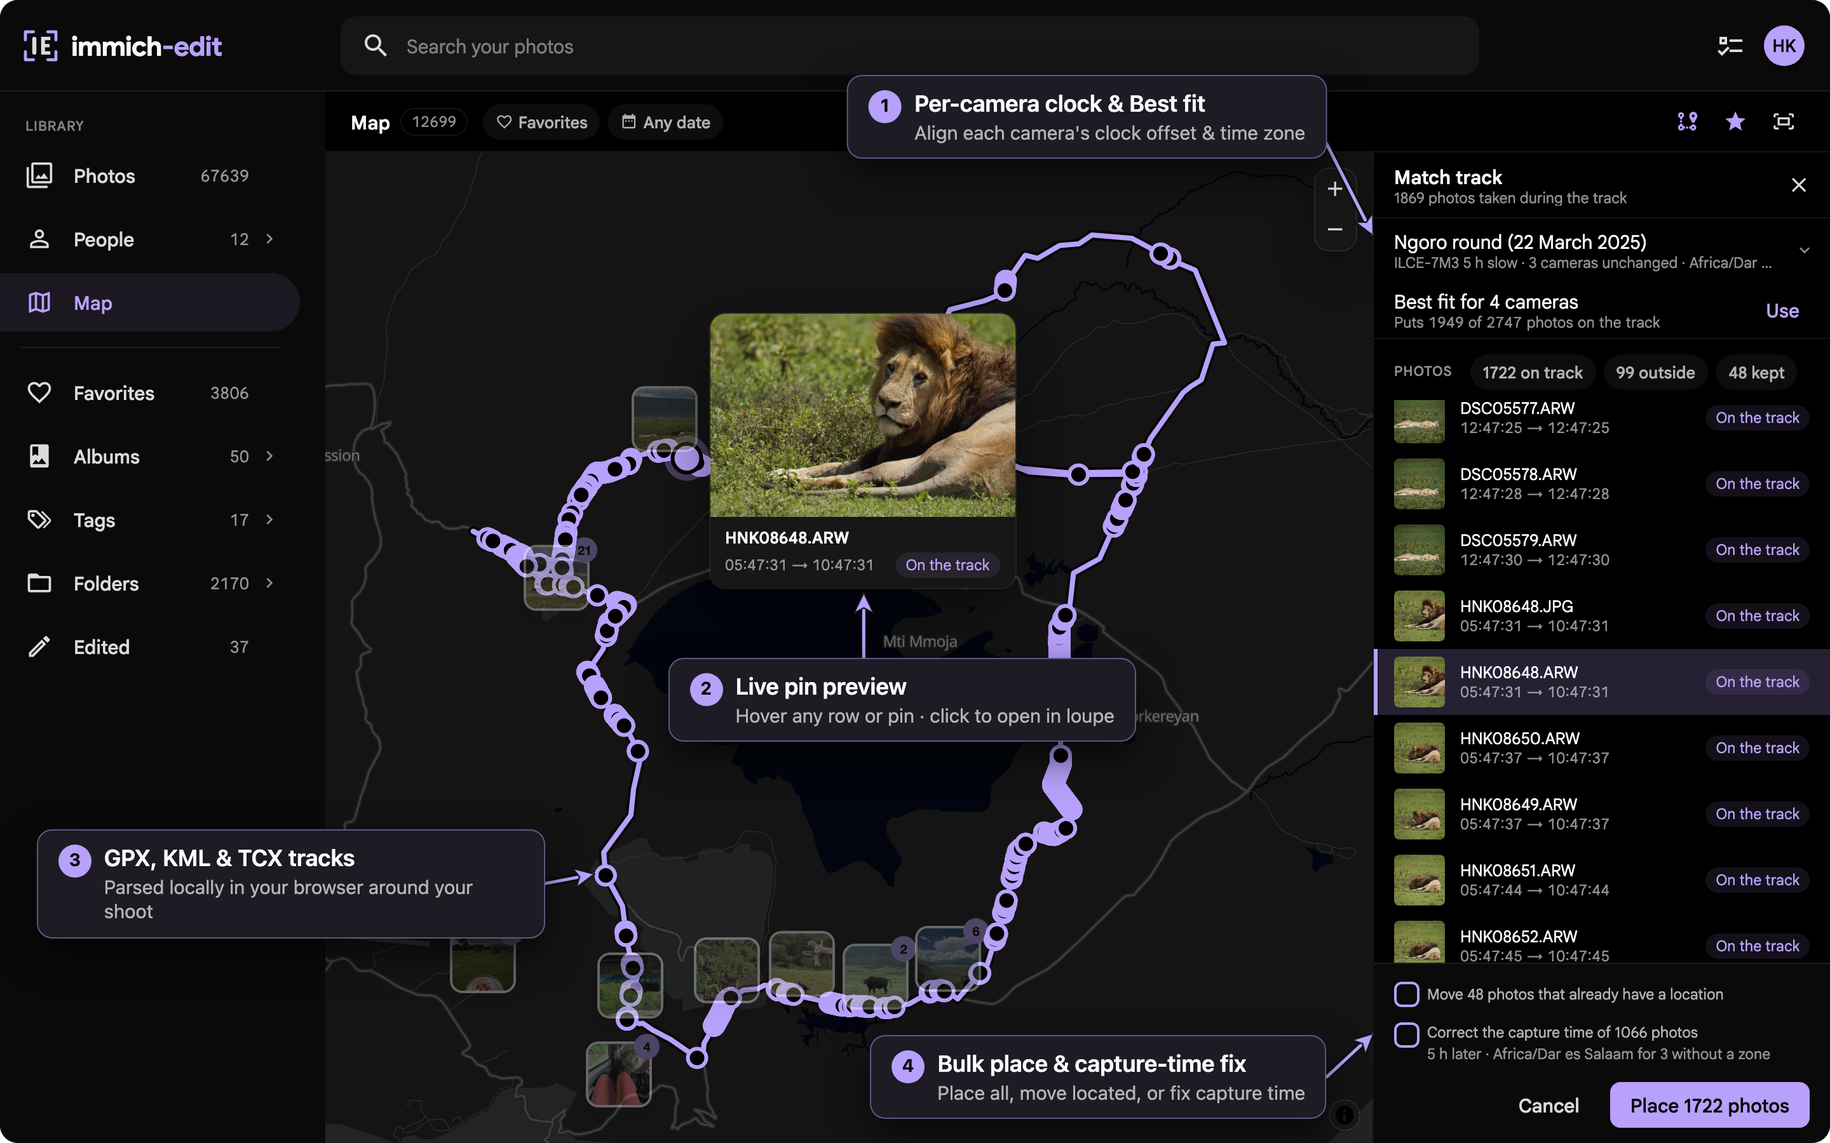
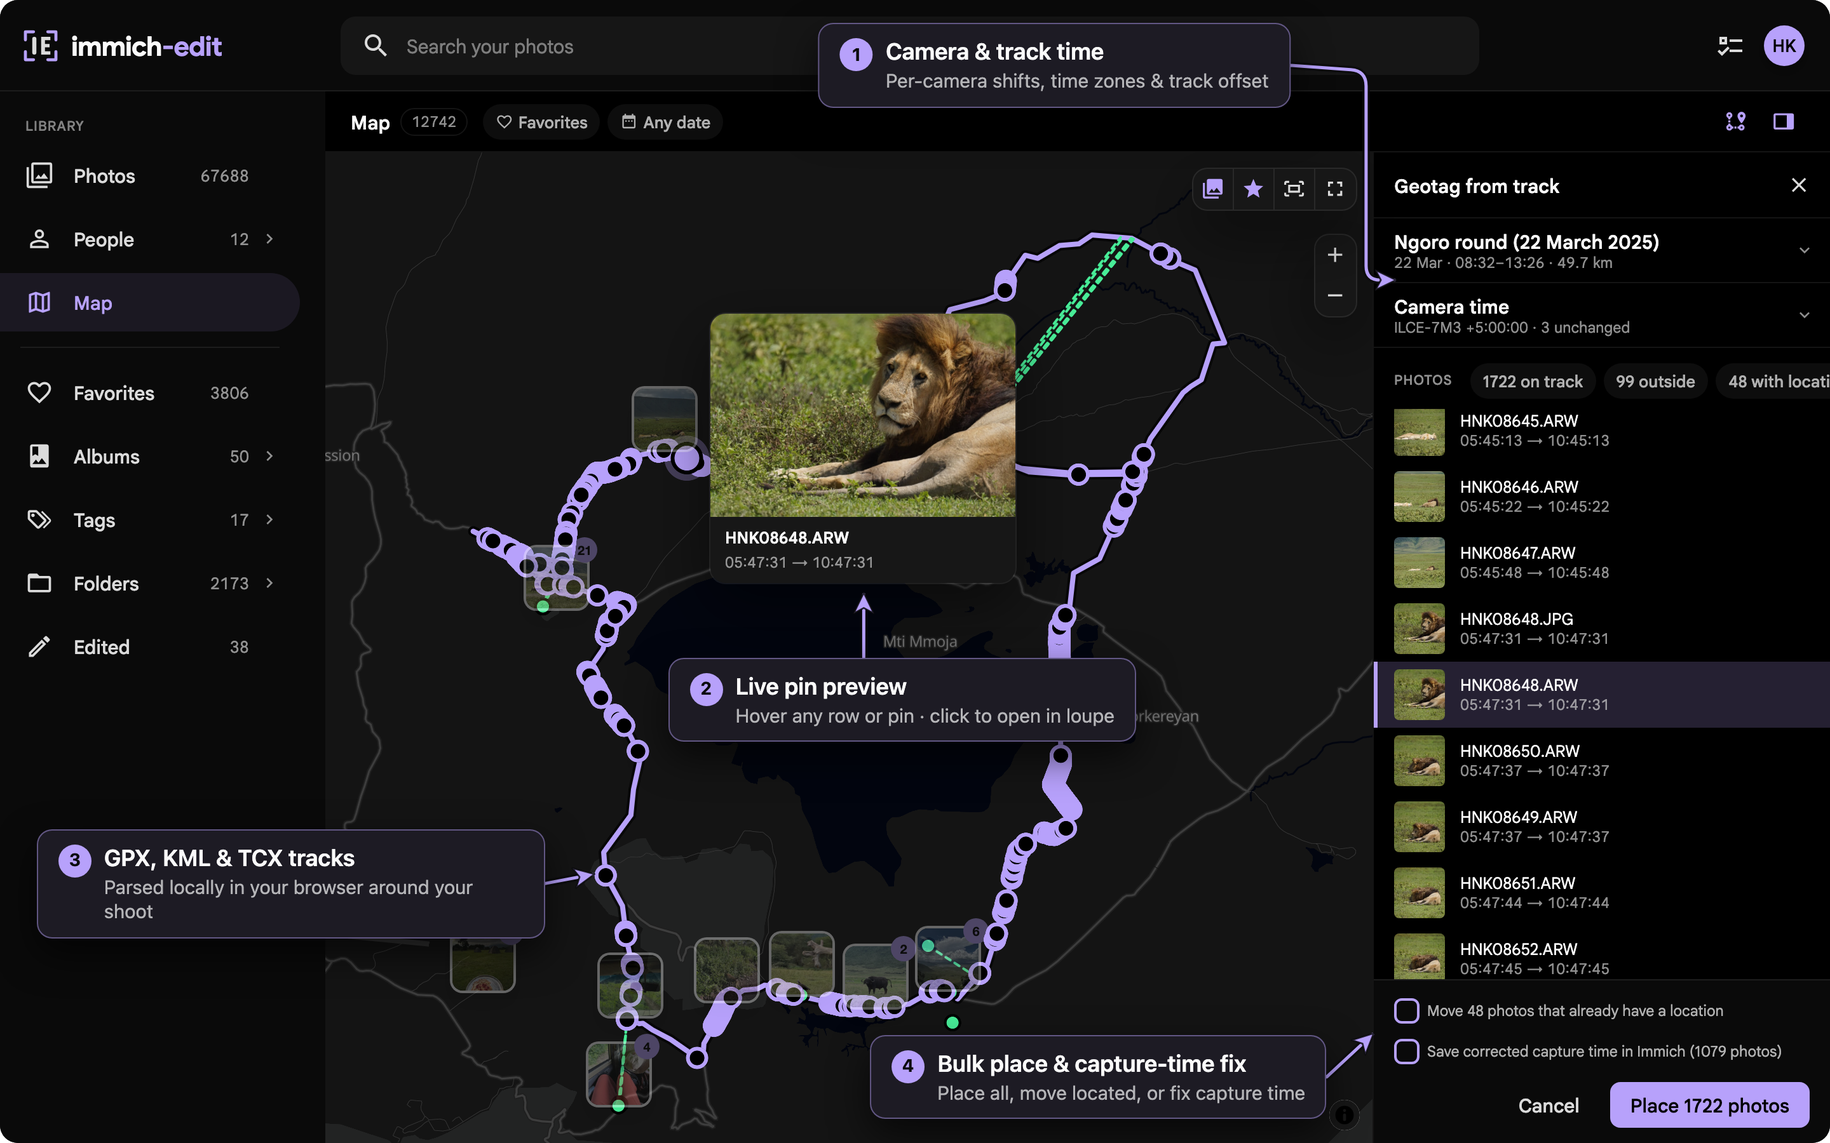
chore: rename track matching to geotag from track

diff --git a/web/e2e/map-track.spec.ts b/web/e2e/map-track.spec.ts
@@ -91,11 +91,11 @@ test('a track places a selection after the camera time is lined up', async ({ pa
   await openBulkLocation(page);
   await page
     .getByRole('group', { name: 'Location' })
-    .getByRole('button', { name: 'Match to a track…' })
+    .getByRole('button', { name: 'Geotag from track…' })
     .click();
 
   await expect(page).toHaveURL(/\/map/);
-  const panel = page.getByRole('complementary', { name: 'Match track' });
+  const panel = page.getByRole('complementary', { name: 'Geotag from track' });
   await expect(panel).toContainText('3 selected photos');
   await loadTrack(page);
 
@@ -140,8 +140,8 @@ test('placing can change the capture time too, and one Undo reverts both', async
     captureTime: times
   });
   await page.goto('/map');
-  await page.getByRole('button', { name: 'Match track' }).click();
-  const panel = page.getByRole('complementary', { name: 'Match track' });
+  await page.getByRole('button', { name: 'Geotag from track' }).click();
+  const panel = page.getByRole('complementary', { name: 'Geotag from track' });
   await loadTrack(page);
   const fix = panel.getByRole('checkbox', {
     name: 'Save corrected capture time in Immich (2 photos)'
@@ -198,8 +198,8 @@ test('each camera keeps its own time zone and shift', async ({ page }) => {
   ];
   await installMocks(page, { assets: shots, placeName: BERGEN, metadataPushConsented: true });
   await page.goto('/map');
-  await page.getByRole('button', { name: 'Match track' }).click();
-  const panel = page.getByRole('complementary', { name: 'Match track' });
+  await page.getByRole('button', { name: 'Geotag from track' }).click();
+  const panel = page.getByRole('complementary', { name: 'Geotag from track' });
   await loadTrack(page);
 
   await expect(shiftHeader(panel)).toContainText('No change');
@@ -237,8 +237,8 @@ test('each camera keeps its own time zone and shift', async ({ page }) => {
 test('a track logged in local time gets its time zone', async ({ page }) => {
   await open(page, []);
   await page.goto('/map');
-  await page.getByRole('button', { name: 'Match track' }).click();
-  const panel = page.getByRole('complementary', { name: 'Match track' });
+  await page.getByRole('button', { name: 'Geotag from track' }).click();
+  const panel = page.getByRole('complementary', { name: 'Geotag from track' });
   await loadTrack(page);
   await expect(panel.getByRole('button', { name: 'Place 0 photos', exact: true })).toBeDisabled();
 
@@ -266,8 +266,8 @@ test('photos with a location can get their capture time saved alone', async ({ p
     captureTime: times
   });
   await page.goto('/map');
-  await page.getByRole('button', { name: 'Match track' }).click();
-  const panel = page.getByRole('complementary', { name: 'Match track' });
+  await page.getByRole('button', { name: 'Geotag from track' }).click();
+  const panel = page.getByRole('complementary', { name: 'Geotag from track' });
   await loadTrack(page);
   await lineUp(panel);
 
@@ -294,8 +294,8 @@ test('photos with a location can get their capture time saved alone', async ({ p
 test('typing a shift moves the photos along the track', async ({ page }) => {
   await open(page, []);
   await page.goto('/map');
-  await page.getByRole('button', { name: 'Match track' }).click();
-  const panel = page.getByRole('complementary', { name: 'Match track' });
+  await page.getByRole('button', { name: 'Geotag from track' }).click();
+  const panel = page.getByRole('complementary', { name: 'Geotag from track' });
   await expect(panel).toContainText('Choose GPX, KML or TCX files');
   await loadTrack(page);
   await openShifts(panel);
@@ -317,8 +317,8 @@ test('typing a shift moves the photos along the track', async ({ page }) => {
 test('a track shift moves the track under the photos', async ({ page }) => {
   await open(page, []);
   await page.goto('/map');
-  await page.getByRole('button', { name: 'Match track' }).click();
-  const panel = page.getByRole('complementary', { name: 'Match track' });
+  await page.getByRole('button', { name: 'Geotag from track' }).click();
+  const panel = page.getByRole('complementary', { name: 'Geotag from track' });
   await loadTrack(page);
   await expect(panel.getByRole('button', { name: 'Place 0 photos', exact: true })).toBeDisabled();
 
@@ -337,8 +337,8 @@ test('a track shift moves the track under the photos', async ({ page }) => {
 test('hovering a pin points at its photo and a click opens it large', async ({ page }) => {
   await open(page, []);
   await page.goto('/map');
-  await page.getByRole('button', { name: 'Match track' }).click();
-  const panel = page.getByRole('complementary', { name: 'Match track' });
+  await page.getByRole('button', { name: 'Geotag from track' }).click();
+  const panel = page.getByRole('complementary', { name: 'Geotag from track' });
   await loadTrack(page);
   await lineUp(panel);
   const photos = panel.getByRole('list', { name: 'Photos on the track' });
@@ -388,8 +388,8 @@ test('photo markers dim under the track and can be hidden', async ({ page }) => 
   await page.goto('/map');
   const toggle = page.getByRole('button', { name: 'Photos on the map', exact: true });
   await expect(toggle).toHaveCount(0);
-  await page.getByRole('button', { name: 'Match track' }).click();
-  const panel = page.getByRole('complementary', { name: 'Match track' });
+  await page.getByRole('button', { name: 'Geotag from track' }).click();
+  const panel = page.getByRole('complementary', { name: 'Geotag from track' });
   await loadTrack(page);
   await lineUp(panel);
   await expect(page).toHaveURL(/at=60\.115\d*%2C6\.715/);
@@ -417,8 +417,8 @@ test('photo markers dim under the track and can be hidden', async ({ page }) => 
 test('track and camera time sections slide open and closed', async ({ page }) => {
   await open(page, []);
   await page.goto('/map');
-  await page.getByRole('button', { name: 'Match track' }).click();
-  const panel = page.getByRole('complementary', { name: 'Match track' });
+  await page.getByRole('button', { name: 'Geotag from track' }).click();
+  const panel = page.getByRole('complementary', { name: 'Geotag from track' });
   await loadTrack(page);
   await page.evaluate(() => {
     const slides: string[] = [];
@@ -453,7 +453,7 @@ function trackBox(page: Page): Locator {
 test('the whole track box opens the file picker', async ({ page }) => {
   await open(page, []);
   await page.goto('/map');
-  await page.getByRole('button', { name: 'Match track' }).click();
+  await page.getByRole('button', { name: 'Geotag from track' }).click();
   await expect(trackBox(page)).toContainText('or drop them on the map');
   const chooser = page.waitForEvent('filechooser');
   await trackBox(page).click({ position: { x: 8, y: 8 } });
@@ -474,8 +474,8 @@ test.describe('a camera without a time zone', () => {
     })) as ReturnType<typeof numberedAssets>;
     await installMocks(page, { assets: unzoned, placeName: BERGEN, metadataPushConsented: true });
     await page.goto('/map');
-    await page.getByRole('button', { name: 'Match track' }).click();
-    const panel = page.getByRole('complementary', { name: 'Match track' });
+    await page.getByRole('button', { name: 'Geotag from track' }).click();
+    const panel = page.getByRole('complementary', { name: 'Geotag from track' });
     await loadTrack(page);
     await openShifts(panel);
     const shifts = cameraShift(panel);
@@ -491,7 +491,7 @@ test.describe('track matching on touch', { tag: '@touch' }, () => {
   test('a tap anywhere on the track box opens the file picker', async ({ page }) => {
     await open(page, []);
     await page.goto('/map');
-    await page.getByRole('button', { name: 'Match track' }).tap();
+    await page.getByRole('button', { name: 'Geotag from track' }).tap();
     await expect(trackBox(page)).not.toContainText('drop');
     const chooser = page.waitForEvent('filechooser');
     await trackBox(page).tap({ position: { x: 8, y: 8 } });
@@ -507,7 +507,7 @@ test.describe('track matching on touch', { tag: '@touch' }, () => {
     await openTouchLocation(page);
     await page
       .getByRole('dialog', { name: 'Location' })
-      .getByRole('button', { name: 'Match to a track…' })
+      .getByRole('button', { name: 'Geotag from track…' })
       .tap();
     await expect(page).toHaveURL(/\/map/);
     await loadTrack(page);
@@ -519,7 +519,7 @@ test.describe('track matching on touch', { tag: '@touch' }, () => {
   test('a tapped photo shows its card first, then opens large', async ({ page }) => {
     await open(page, []);
     await page.goto('/map');
-    await page.getByRole('button', { name: 'Match track' }).tap();
+    await page.getByRole('button', { name: 'Geotag from track' }).tap();
     await loadTrack(page);
     await lineUpOnTouch(page);
     const panel = page.locator('[data-track-panel]');
@@ -552,7 +552,7 @@ test.describe('track matching on touch', { tag: '@touch' }, () => {
     await open(page, []);
     await page.goto('/library');
     await page.getByRole('link', { name: /^Map/ }).filter({ visible: true }).first().tap();
-    await page.getByRole('button', { name: 'Match track' }).tap();
+    await page.getByRole('button', { name: 'Geotag from track' }).tap();
     await loadTrack(page);
     await expect(page.locator('[data-track-sheet]')).toBeVisible();
     await page.getByRole('button', { name: 'Back', exact: true }).tap();
@@ -560,7 +560,7 @@ test.describe('track matching on touch', { tag: '@touch' }, () => {
     await page.getByRole('link', { name: /^Map/ }).filter({ visible: true }).first().tap();
     await expect(page.getByRole('region', { name: 'Map of your photos' })).toBeVisible();
     await expect(page.locator('[data-track-sheet]')).toHaveCount(0);
-    await expect(page.getByRole('button', { name: 'Match track' })).toHaveAttribute(
+    await expect(page.getByRole('button', { name: 'Geotag from track' })).toHaveAttribute(
       'aria-pressed',
       'false'
     );
@@ -576,7 +576,7 @@ test.describe('track matching on touch', { tag: '@touch' }, () => {
       captureTime: times
     });
     await page.goto('/map');
-    await page.getByRole('button', { name: 'Match track' }).tap();
+    await page.getByRole('button', { name: 'Geotag from track' }).tap();
     await loadTrack(page);
     await lineUpOnTouch(page);
     const sheet = page.locator('[data-track-sheet]');
@@ -593,7 +593,7 @@ test.describe('track matching on touch', { tag: '@touch' }, () => {
     test.skip(info.project.name !== 'touch-phone', 'phone sheet');
     await open(page, []);
     await page.goto('/map');
-    await page.getByRole('button', { name: 'Match track' }).tap();
+    await page.getByRole('button', { name: 'Geotag from track' }).tap();
     await loadTrack(page);
     const sheet = page.locator('[data-track-sheet]');
     const resize = page.getByRole('button', { name: 'Resize sheet' });
@@ -616,7 +616,7 @@ test.describe('track matching on touch', { tag: '@touch' }, () => {
     test.skip(info.project.name !== 'touch-phone', 'phone sheet');
     await open(page, []);
     await page.goto('/map');
-    await page.getByRole('button', { name: 'Match track' }).tap();
+    await page.getByRole('button', { name: 'Geotag from track' }).tap();
     await loadTrack(page);
     const sheet = page.locator('[data-track-sheet]');
     const height = async (): Promise<number> => (await sheet.boundingBox())!.height;
@@ -632,7 +632,7 @@ test.describe('track matching on touch', { tag: '@touch' }, () => {
     test.skip(info.project.name !== 'touch-tablet', 'tablet panel');
     await open(page, []);
     await page.goto('/map');
-    await page.getByRole('button', { name: 'Match track' }).tap();
+    await page.getByRole('button', { name: 'Geotag from track' }).tap();
     await loadTrack(page);
     await lineUpOnTouch(page);
     await expect(page).toHaveURL(/%2C1[2-9]\.\d\d$/);
@@ -658,8 +658,8 @@ test.describe('track matching on touch', { tag: '@touch' }, () => {
     await page.setViewportSize({ width: 844, height: 390 });
     await open(page, []);
     await page.goto('/map');
-    await page.getByRole('button', { name: 'Match track' }).tap();
-    const panel = page.getByRole('complementary', { name: 'Match track' });
+    await page.getByRole('button', { name: 'Geotag from track' }).tap();
+    const panel = page.getByRole('complementary', { name: 'Geotag from track' });
     await expect(panel).toBeVisible();
     await loadTrack(page);
     const box = (await panel.boundingBox())!;

diff --git a/web/e2e/map-fullscreen.spec.ts b/web/e2e/map-fullscreen.spec.ts
@@ -29,7 +29,7 @@ function card(page: Page) {
 async function openTrack(page: Page): Promise<void> {
   await installMocks(page, { assets: SHOOT, metadataPushConsented: true });
   await page.goto('/map');
-  await page.getByRole('button', { name: 'Match track', exact: true }).click();
+  await page.getByRole('button', { name: 'Geotag from track', exact: true }).click();
   await page.getByLabel('Choose track files').setInputFiles(GPX);
   await expect(page.getByText('Hardangervidda').first()).toBeVisible();
 }
@@ -115,7 +115,7 @@ test('Escape leaves fullscreen before it clears a selection', async ({ page }) =
 
 test('a fullscreen track keeps its summary and Place in a floating card', async ({ page }) => {
   await openTrack(page);
-  const panel = page.getByRole('complementary', { name: 'Match track' });
+  const panel = page.getByRole('complementary', { name: 'Geotag from track' });
   await expect(panel).toBeVisible();
   await page.keyboard.press('f');
   await expect(panel).toBeHidden();
@@ -142,7 +142,7 @@ test('fullscreen stays under the loupe and ends when the map is left for Library
   page
 }) => {
   await openTrack(page);
-  const panel = page.getByRole('complementary', { name: 'Match track' });
+  const panel = page.getByRole('complementary', { name: 'Geotag from track' });
   await panel.getByRole('button', { name: /^Camera time/ }).click();
   const shift = panel.getByRole('textbox', { name: 'Shift Unknown camera by', exact: true });
   await shift.fill('-1:00');
@@ -205,7 +205,7 @@ test.describe('fullscreen map on touch', { tag: '@touch' }, () => {
   }, info) => {
     await installMocks(page, { assets: SHOOT, metadataPushConsented: true });
     await page.goto('/map');
-    await page.getByRole('button', { name: 'Match track', exact: true }).tap();
+    await page.getByRole('button', { name: 'Geotag from track', exact: true }).tap();
     await page.getByLabel('Choose track files').setInputFiles(GPX);
     await expect(page.getByText('Hardangervidda').first()).toBeVisible();
     await page.getByRole('button', { name: 'Fullscreen', exact: true }).tap();
@@ -229,7 +229,7 @@ test.describe('fullscreen map on touch', { tag: '@touch' }, () => {
       const row = await boxOf(card(page));
       expect(Math.round(844 - (row.x + row.width))).toBe(12);
       expect(row.width).toBeLessThan(700);
-      await expect(page.getByRole('complementary', { name: 'Match track' })).toBeHidden();
+      await expect(page.getByRole('complementary', { name: 'Geotag from track' })).toBeHidden();
     } else {
       expect(Math.abs(box.x + box.width / 2 - viewport.width / 2)).toBeLessThan(2);
       expect(button.width).toBeLessThan(box.width / 2);

diff --git a/web/src/lib/components/map/MapPage.svelte b/web/src/lib/components/map/MapPage.svelte
@@ -399,7 +399,7 @@
     <div class="relative flex min-h-0 flex-1">
       {@render mapView('flex min-w-0 flex-1', 'min-w-0 flex-1')}
       <aside
-        aria-label="Match track"
+        aria-label="Geotag from track"
         class="w-75 shrink-0 flex-col border-s border-hairline bg-light {full ? 'hidden' : 'flex'}"
       >
         <TrackPanel />
@@ -425,7 +425,10 @@
   {:else}
     <div class="relative flex min-h-0 flex-1">
       {@render mapView('flex min-w-0 flex-1', 'min-w-0 flex-1')}
-      <MapSidePanel label={tracking ? 'Match track' : 'Photos in view'} shown={!full && side.shown}>
+      <MapSidePanel
+        label={tracking ? 'Geotag from track' : 'Photos in view'}
+        shown={!full && side.shown}
+      >
         {#if tracking}
           <TrackPanel />
         {:else}

diff --git a/web/src/lib/components/geotag/TrackPanel.svelte b/web/src/lib/components/geotag/TrackPanel.svelte
@@ -22,7 +22,7 @@
   {#if header}
     <div class="flex h-13 shrink-0 items-center gap-2 border-b border-hairline ps-4 pe-2">
       <div class="min-w-0 flex-1 leading-tight">
-        <h2 class="truncate text-sm font-semibold text-light-950">Match track</h2>
+        <h2 class="truncate text-sm font-semibold text-light-950">Geotag from track</h2>
         {#if subtitle}
           <p class="truncate text-caption text-dark/65">{subtitle}</p>
         {/if}

diff --git a/web/src/lib/components/map/MapActions.svelte b/web/src/lib/components/map/MapActions.svelte
@@ -15,8 +15,8 @@
   color={tracking ? 'primary' : 'secondary'}
   class="touch:size-11"
   icon={mdiMapMarkerPath}
-  title={tracking ? 'Close track' : 'Match photos to a track'}
-  aria-label="Match track"
+  title={tracking ? 'Close track' : 'Geotag photos from a GPS track'}
+  aria-label="Geotag from track"
   aria-pressed={tracking}
   onclick={() => (tracking ? trackSession.close() : trackSession.open())}
 />

diff --git a/web/src/lib/browse/trackEntry.ts b/web/src/lib/browse/trackEntry.ts
@@ -7,7 +7,7 @@ export async function matchTrackFor(ids: readonly string[]): Promise<void> {
   try {
     trackSession.open(await resolveAssets(ids));
   } catch (error) {
-    toasts.fail('Match to a track', error);
+    toasts.fail('Geotag from track', error);
     return;
   }
   await goto('/map');

diff --git a/web/src/lib/components/geotag/TrackSheet.svelte b/web/src/lib/components/geotag/TrackSheet.svelte
@@ -48,7 +48,7 @@
   ]}
   bind:detent
   collapseTo={loaded ? 1 : undefined}
-  title={loaded ? session.summary : 'Match track'}
+  title={loaded ? session.summary : 'Geotag from track'}
   {subtitle}
   bodyClass="flex h-full min-h-0 flex-col p-0"
   {lift}

diff --git a/web/src/lib/browse/bulk/bulkLocation.svelte.ts b/web/src/lib/browse/bulk/bulkLocation.svelte.ts
@@ -83,7 +83,7 @@ class BulkLocation {
   );
 
   readonly track: BulkMenuAction = $derived({
-    label: 'Match to a track…',
+    label: 'Geotag from track…',
     icon: mdiMapMarkerPath,
     bind: null,
     detail: null,

diff --git a/docs/src/content/docs/editing/map.md b/docs/src/content/docs/editing/map.md
@@ -1,6 +1,6 @@
 ---
 title: Map and geotagging
-description: Explore geotagged photos, save places, and match shoots to GPX, KML, or TCX tracks.
+description: Explore geotagged photos, save places, and geotag shoots from GPX, KML, or TCX tracks.
 ---
 
 Open **Map** from the sidebar (under **Library** > **Collections** on phones) to browse geotagged
@@ -56,12 +56,12 @@ in bulk, so a location can be moved but not removed):
 <!-- SCREENSHOT: capture.cjs location-desktop + compose.cjs location-desktop -->
 ![Set location dialog with Photon place search and draggable map pin](../../../assets/shots/location-desktop.png)
 
-## Match photos to a track
+## Geotag photos from a track
 
-Geotag still photos from a GPX, KML, or TCX track recorded by a watch, phone app, or GPS logger:
+Geotag still photos with a GPX, KML, or TCX track from a watch, phone app, or GPS logger:
 
-1. Select photos and choose **Metadata** > **Location** > **Match to a track**, or select **Match
-   track** in the map header to match every photo taken during the track.
+1. Select photos and choose **Metadata** > **Location** > **Geotag from track**, or select
+   **Geotag from track** in the map header to match every photo taken during the track.
 2. Drop or choose one or more track files (parsed locally in your browser; only saved coordinates
    are sent to Immich).
 3. Align each camera under **Camera time**: set a camera's **Time zone** when it was not left in
@@ -79,7 +79,7 @@ Geotag still photos from a GPX, KML, or TCX track recorded by a watch, phone app
    inherit the track's zone). **Undo** restores both.
 
 <!-- SCREENSHOT: capture.cjs track-desktop + compose.cjs track-desktop -->
-![GPX track matching around Lake Magadi with hovered lion photo preview and matched photo list](../../../assets/shots/track-desktop.png)
+![Geotag from track around Lake Magadi with hovered lion preview, reference pins, and matched photo list](../../../assets/shots/track-desktop.png)
 
 ## Tiles and privacy
 

diff --git a/docs/src/content/docs/reference/features.md b/docs/src/content/docs/reference/features.md
@@ -23,7 +23,7 @@ roadmap promise.
 | Map view of geotagged photos, fullscreen map, and photo info mini map | ✓ Yes | [Map and geotagging](../editing/map.md) |
 | Set, move, drag-drop, bulk, and copy/paste photo locations | ✓ Yes | Owned photos; Immich cannot clear GPS in bulk |
 | Saved and recent places, coordinates and map links in place search | ✓ Yes | [Map and geotagging](../editing/map.md#saved-and-recent-places) |
-| GPX, KML, and TCX track matching with per-camera and per-track time zones and shifts, reference pins, and capture-time correction | ✓ Yes | [Map and geotagging](../editing/map.md#match-photos-to-a-track) |
+| Geotagging from GPX, KML, and TCX tracks with per-camera and per-track time zones and shifts, reference pins, and capture-time correction | ✓ Yes | [Map and geotagging](../editing/map.md#geotag-photos-from-a-track) |
 | Two-photo compare, 9-photo survey, face-aware zoom, peek (`W`) | ✓ Yes | Survey is desktop/tablet; phones use compare |
 | Virtual copies | ✓ Yes | Independent local edits sharing Immich metadata |
 | Move owned photos to Immich trash (with Undo) | ✓ Yes | Refused when Immich trash is disabled |
